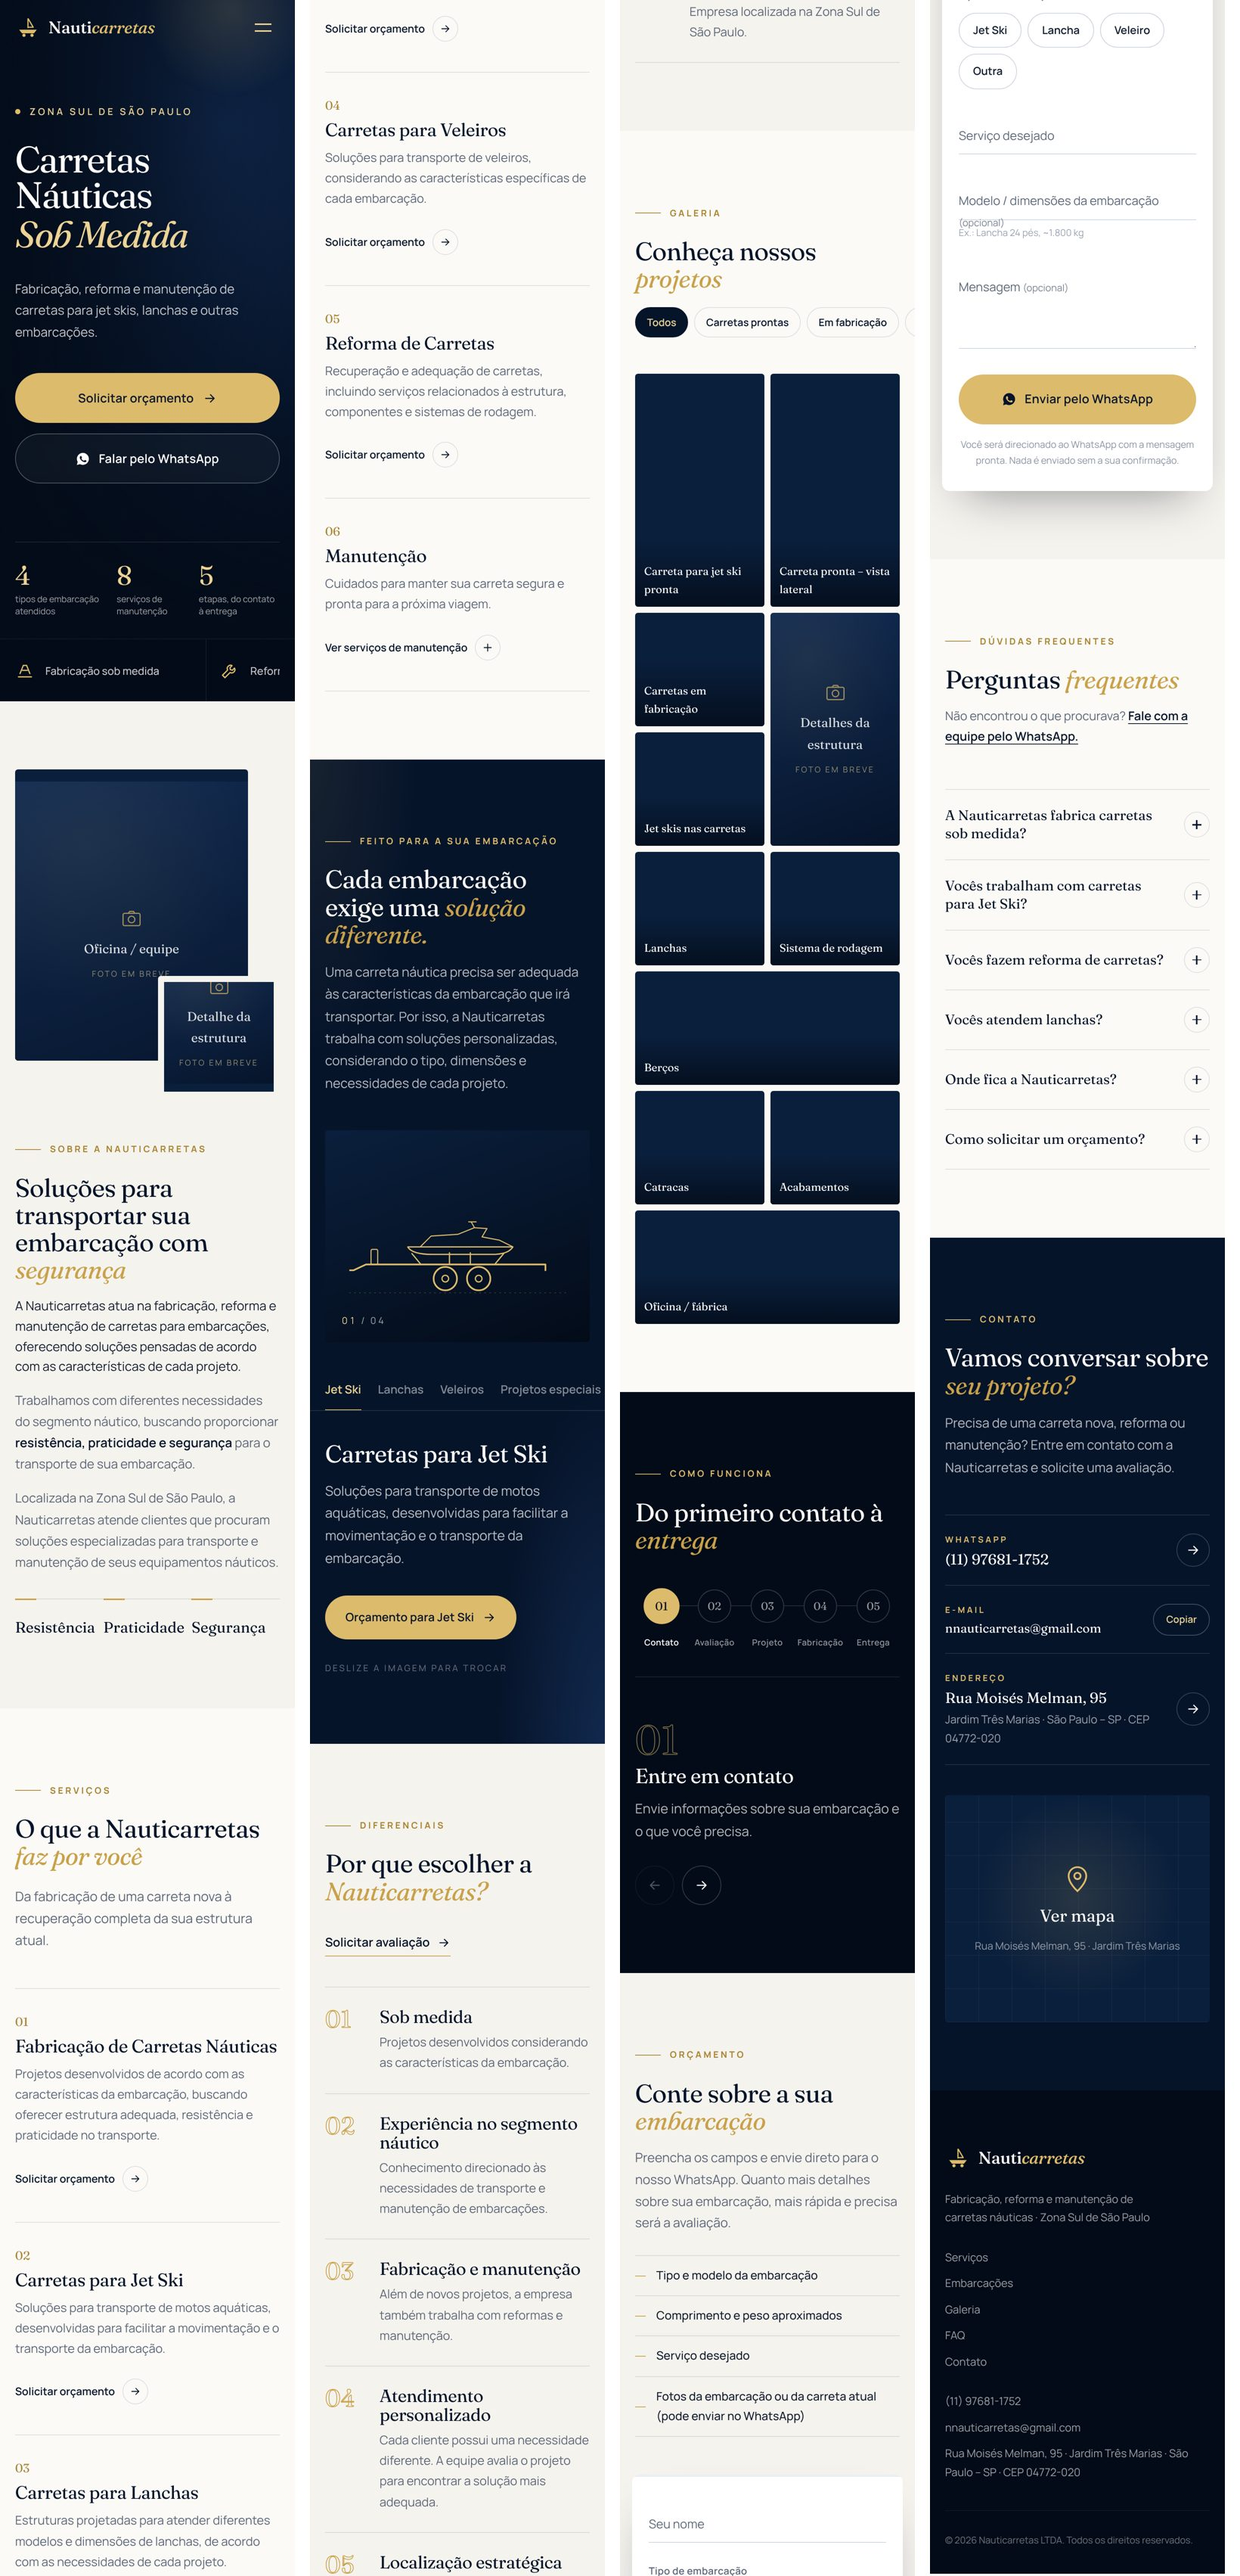
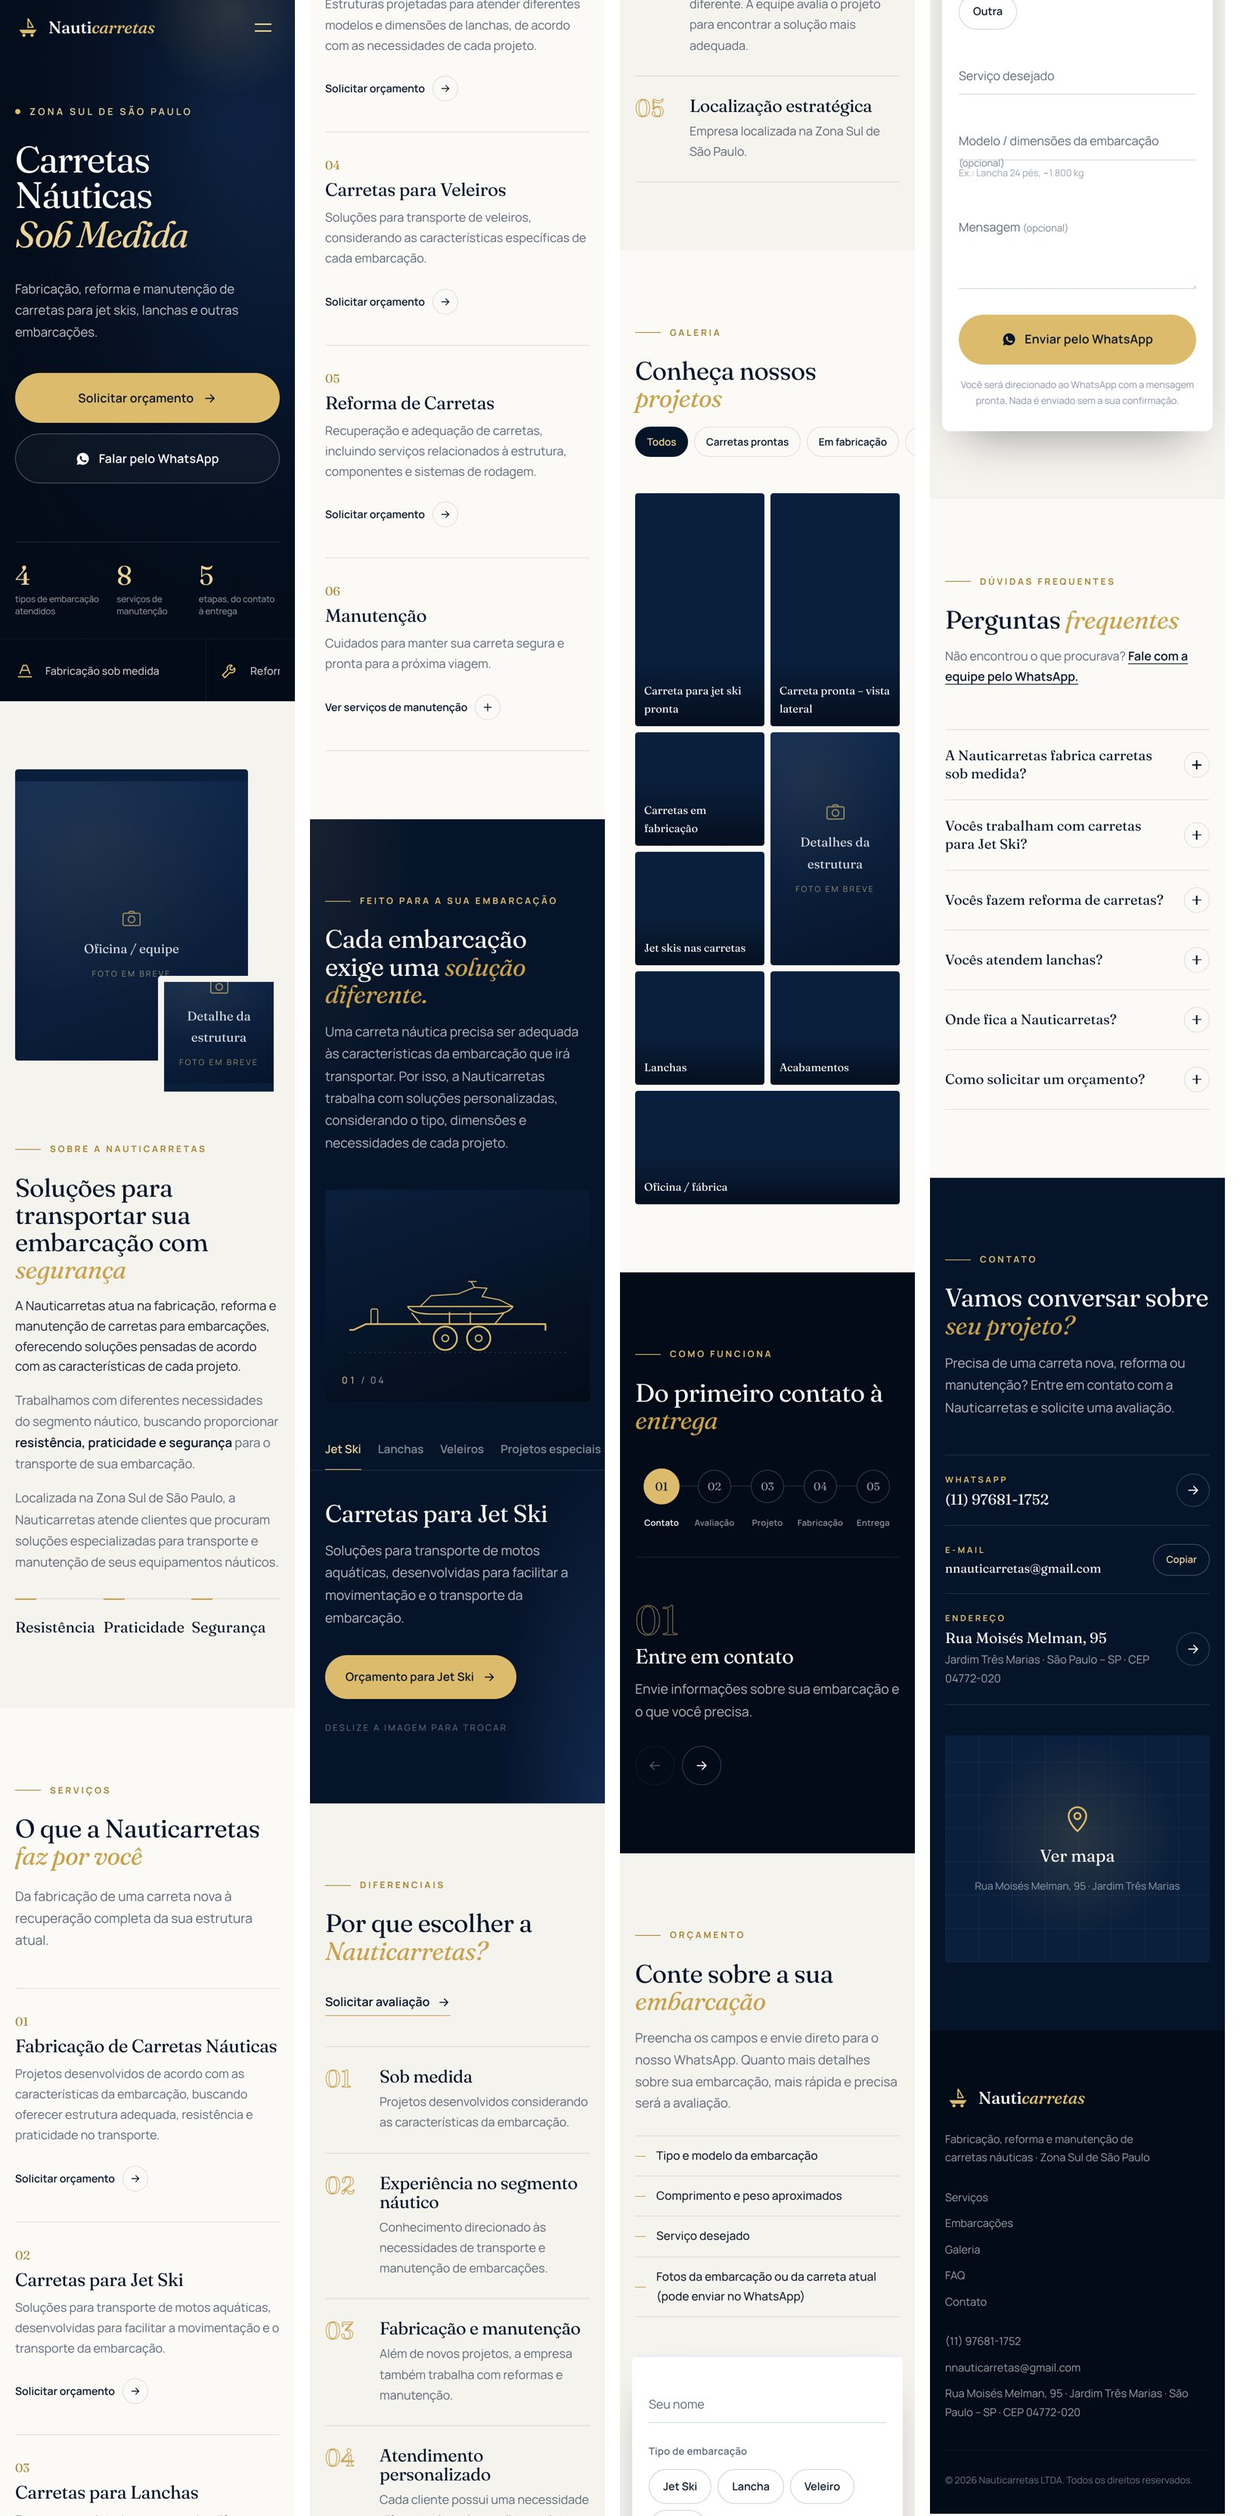
Remove rodagem, berços and catracas tiles from gallery
Claude-Session: https://claude.ai/code/session_01D44NFmDCLgExALspxdApa2

diff --git a/nauticarretas/index.html b/nauticarretas/index.html
@@ -486,9 +486,6 @@
           <figure class="g-item g-item--tall" data-cat="detalhes"><img class="photo" src="images/galeria-03.jpg" alt="Detalhes da estrutura" data-fallback="Detalhes da estrutura" loading="lazy" /><figcaption>Detalhes da estrutura</figcaption></figure>
           <figure class="g-item" data-cat="embarcacoes"><img class="photo" src="images/galeria-04.jpg" alt="Jet ski na carreta" data-fallback="Jet skis nas carretas" loading="lazy" /><figcaption>Jet skis nas carretas</figcaption></figure>
           <figure class="g-item" data-cat="embarcacoes"><img class="photo" src="images/galeria-05.jpg" alt="Lancha na carreta" data-fallback="Lanchas" loading="lazy" /><figcaption>Lanchas</figcaption></figure>
-          <figure class="g-item" data-cat="detalhes"><img class="photo" src="images/galeria-06.jpg" alt="Sistema de rodagem" data-fallback="Sistema de rodagem" loading="lazy" /><figcaption>Sistema de rodagem</figcaption></figure>
-          <figure class="g-item g-item--wide" data-cat="detalhes"><img class="photo" src="images/galeria-07.jpg" alt="Berços da carreta" data-fallback="Berços" loading="lazy" /><figcaption>Berços</figcaption></figure>
-          <figure class="g-item" data-cat="detalhes"><img class="photo" src="images/galeria-08.jpg" alt="Catraca" data-fallback="Catracas" loading="lazy" /><figcaption>Catracas</figcaption></figure>
           <figure class="g-item" data-cat="prontas"><img class="photo" src="images/galeria-09.jpg" alt="Acabamentos" data-fallback="Acabamentos" loading="lazy" /><figcaption>Acabamentos</figcaption></figure>
           <figure class="g-item g-item--wide" data-cat="oficina"><img class="photo" src="images/galeria-10.jpg" alt="Oficina / fábrica" data-fallback="Oficina / fábrica" loading="lazy" /><figcaption>Oficina / fábrica</figcaption></figure>
         </div>
